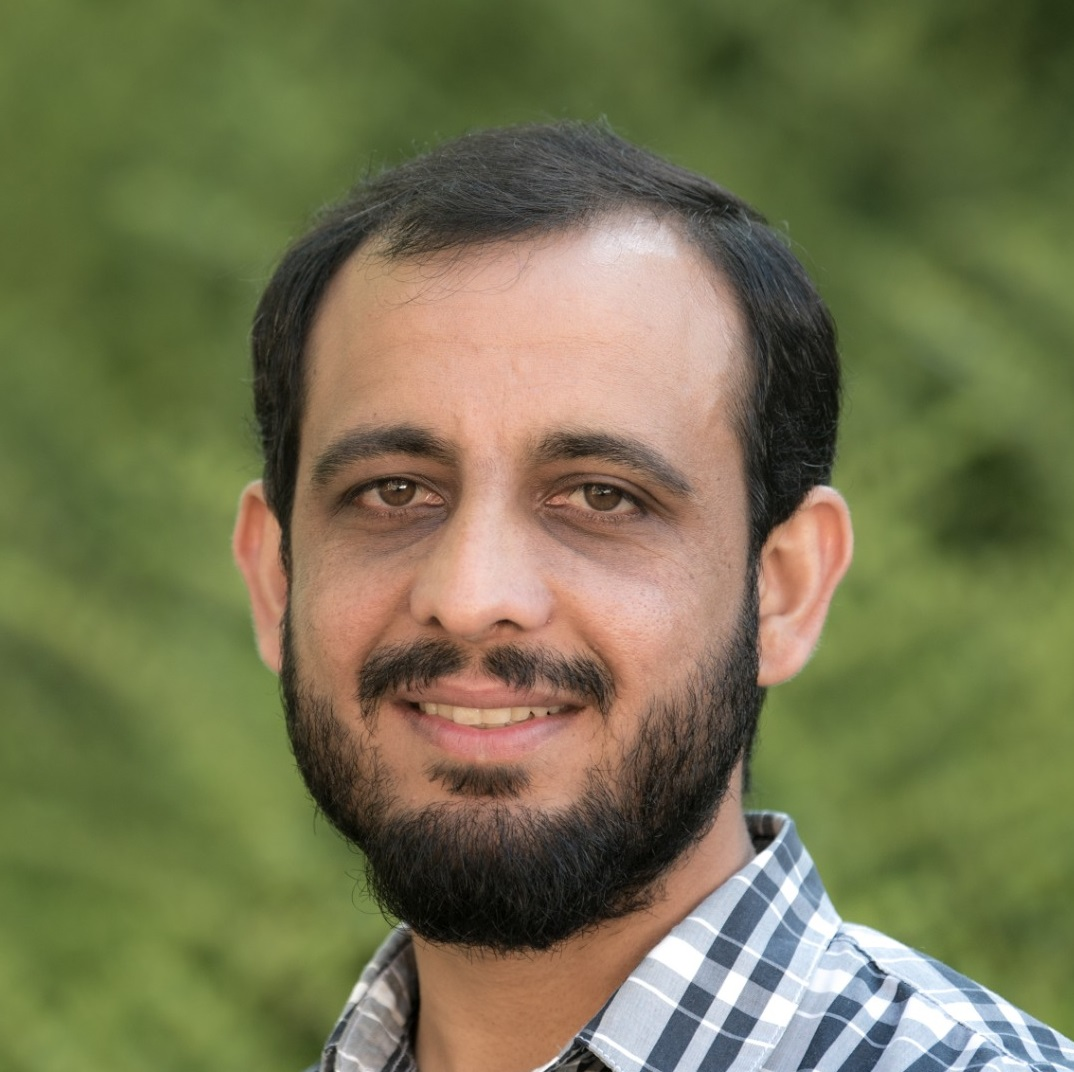
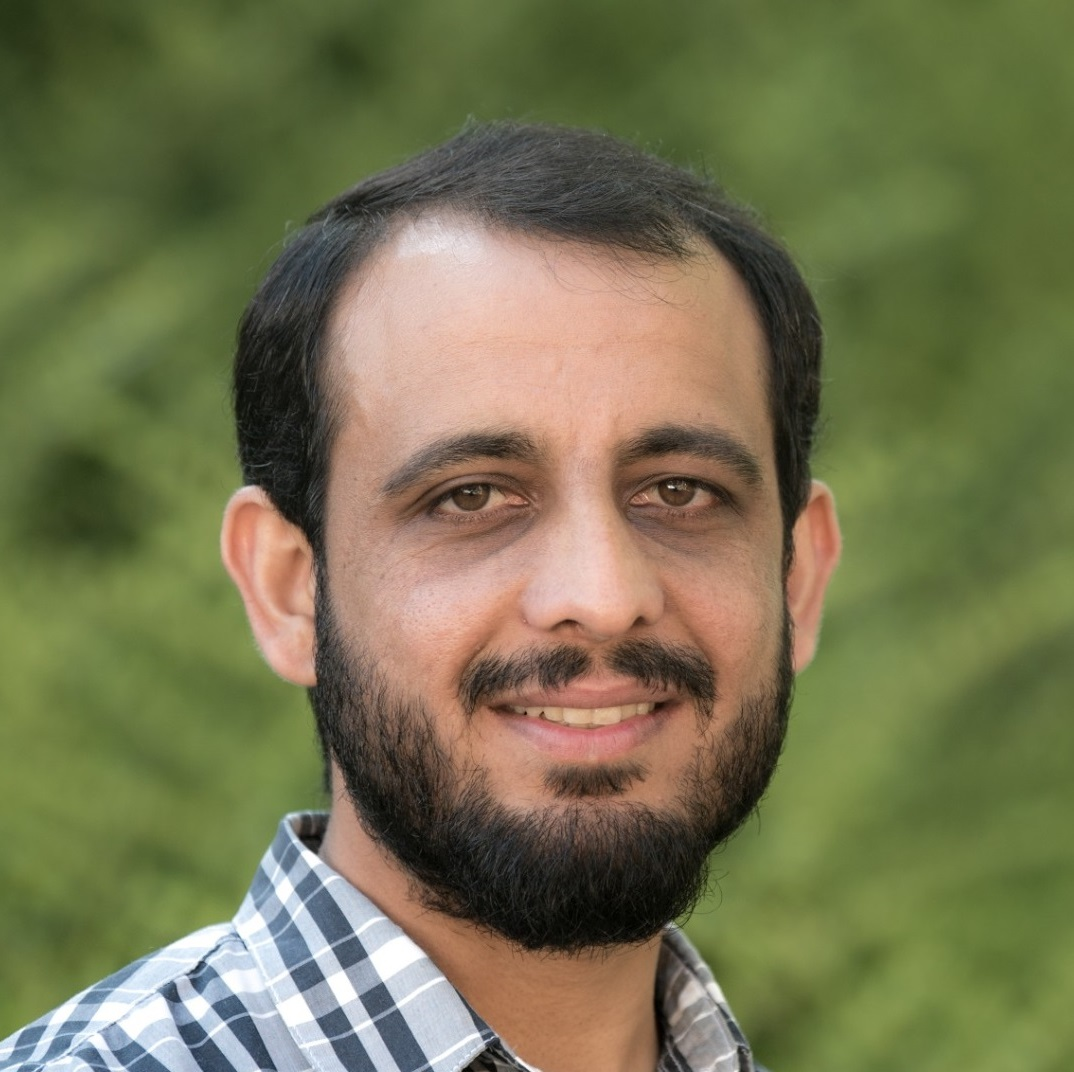
Added and updated team member pictures

diff --git a/src/components/App/Website/Team/Team.js b/src/components/App/Website/Team/Team.js
@@ -22,7 +22,7 @@ const Team = () => {
     const data = [
         { name: "Abdul-Rahman Khan", affiliation: "Student at University Duisburg-Essen", imageFile: "khan.jpeg" },
         { name: "Muhammad Faizan Riaz", affiliation: "Student at University Duisburg-Essen", imageFile: "riaz.jpg" },
-        { name: "Bilawal Wajid Ali", affiliation: "Student at University Duisburg-Essen", imageFile: "male.png" },
+        { name: "Bilawal Wajid Ali", affiliation: "Student at University Duisburg-Essen", imageFile: "ali.jpg" },
         { name: "Sammar Javed", affiliation: "M.Sc. University Duisburg-Essen", imageFile: "javed.jpg" },
         { name: "Memoona Mughal", affiliation: "M.Sc. RWTH Aachen University", imageFile: "mughal.jpg" },
         { name: "Oscar Eduardo Barrios Varela", affiliation: "M.Sc. RWTH Aachen University", imageFile: "barrios.jpg" },
